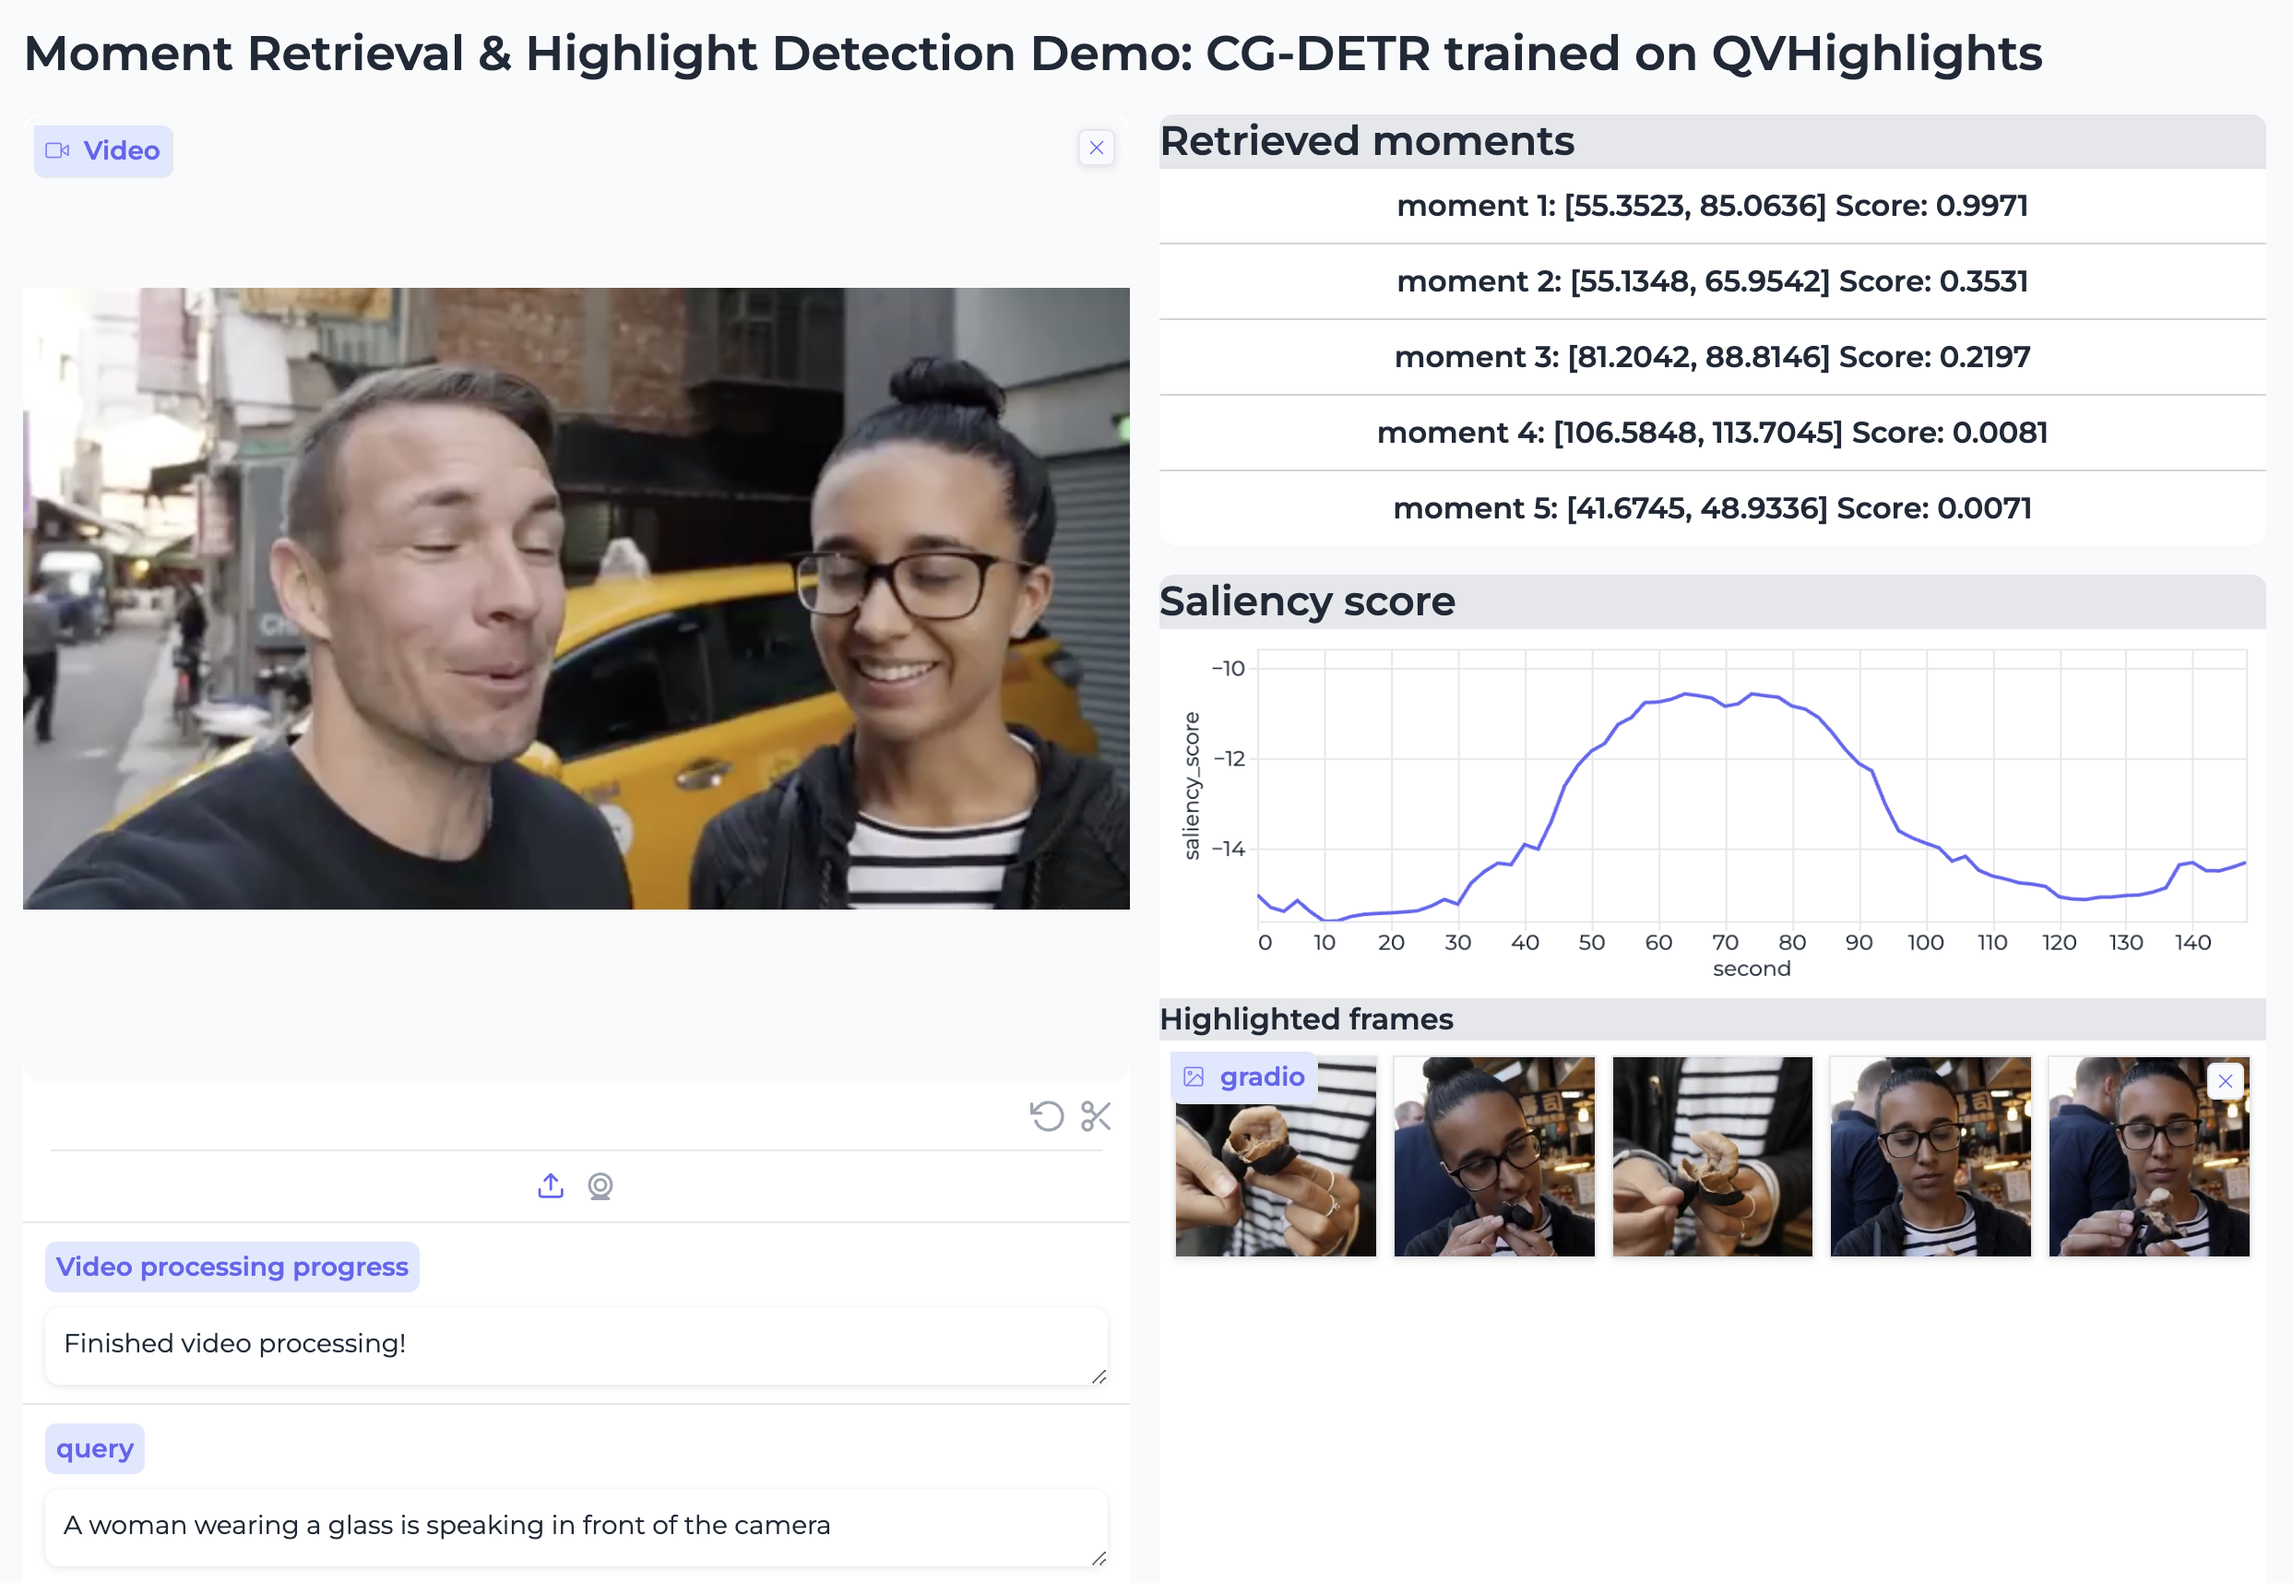
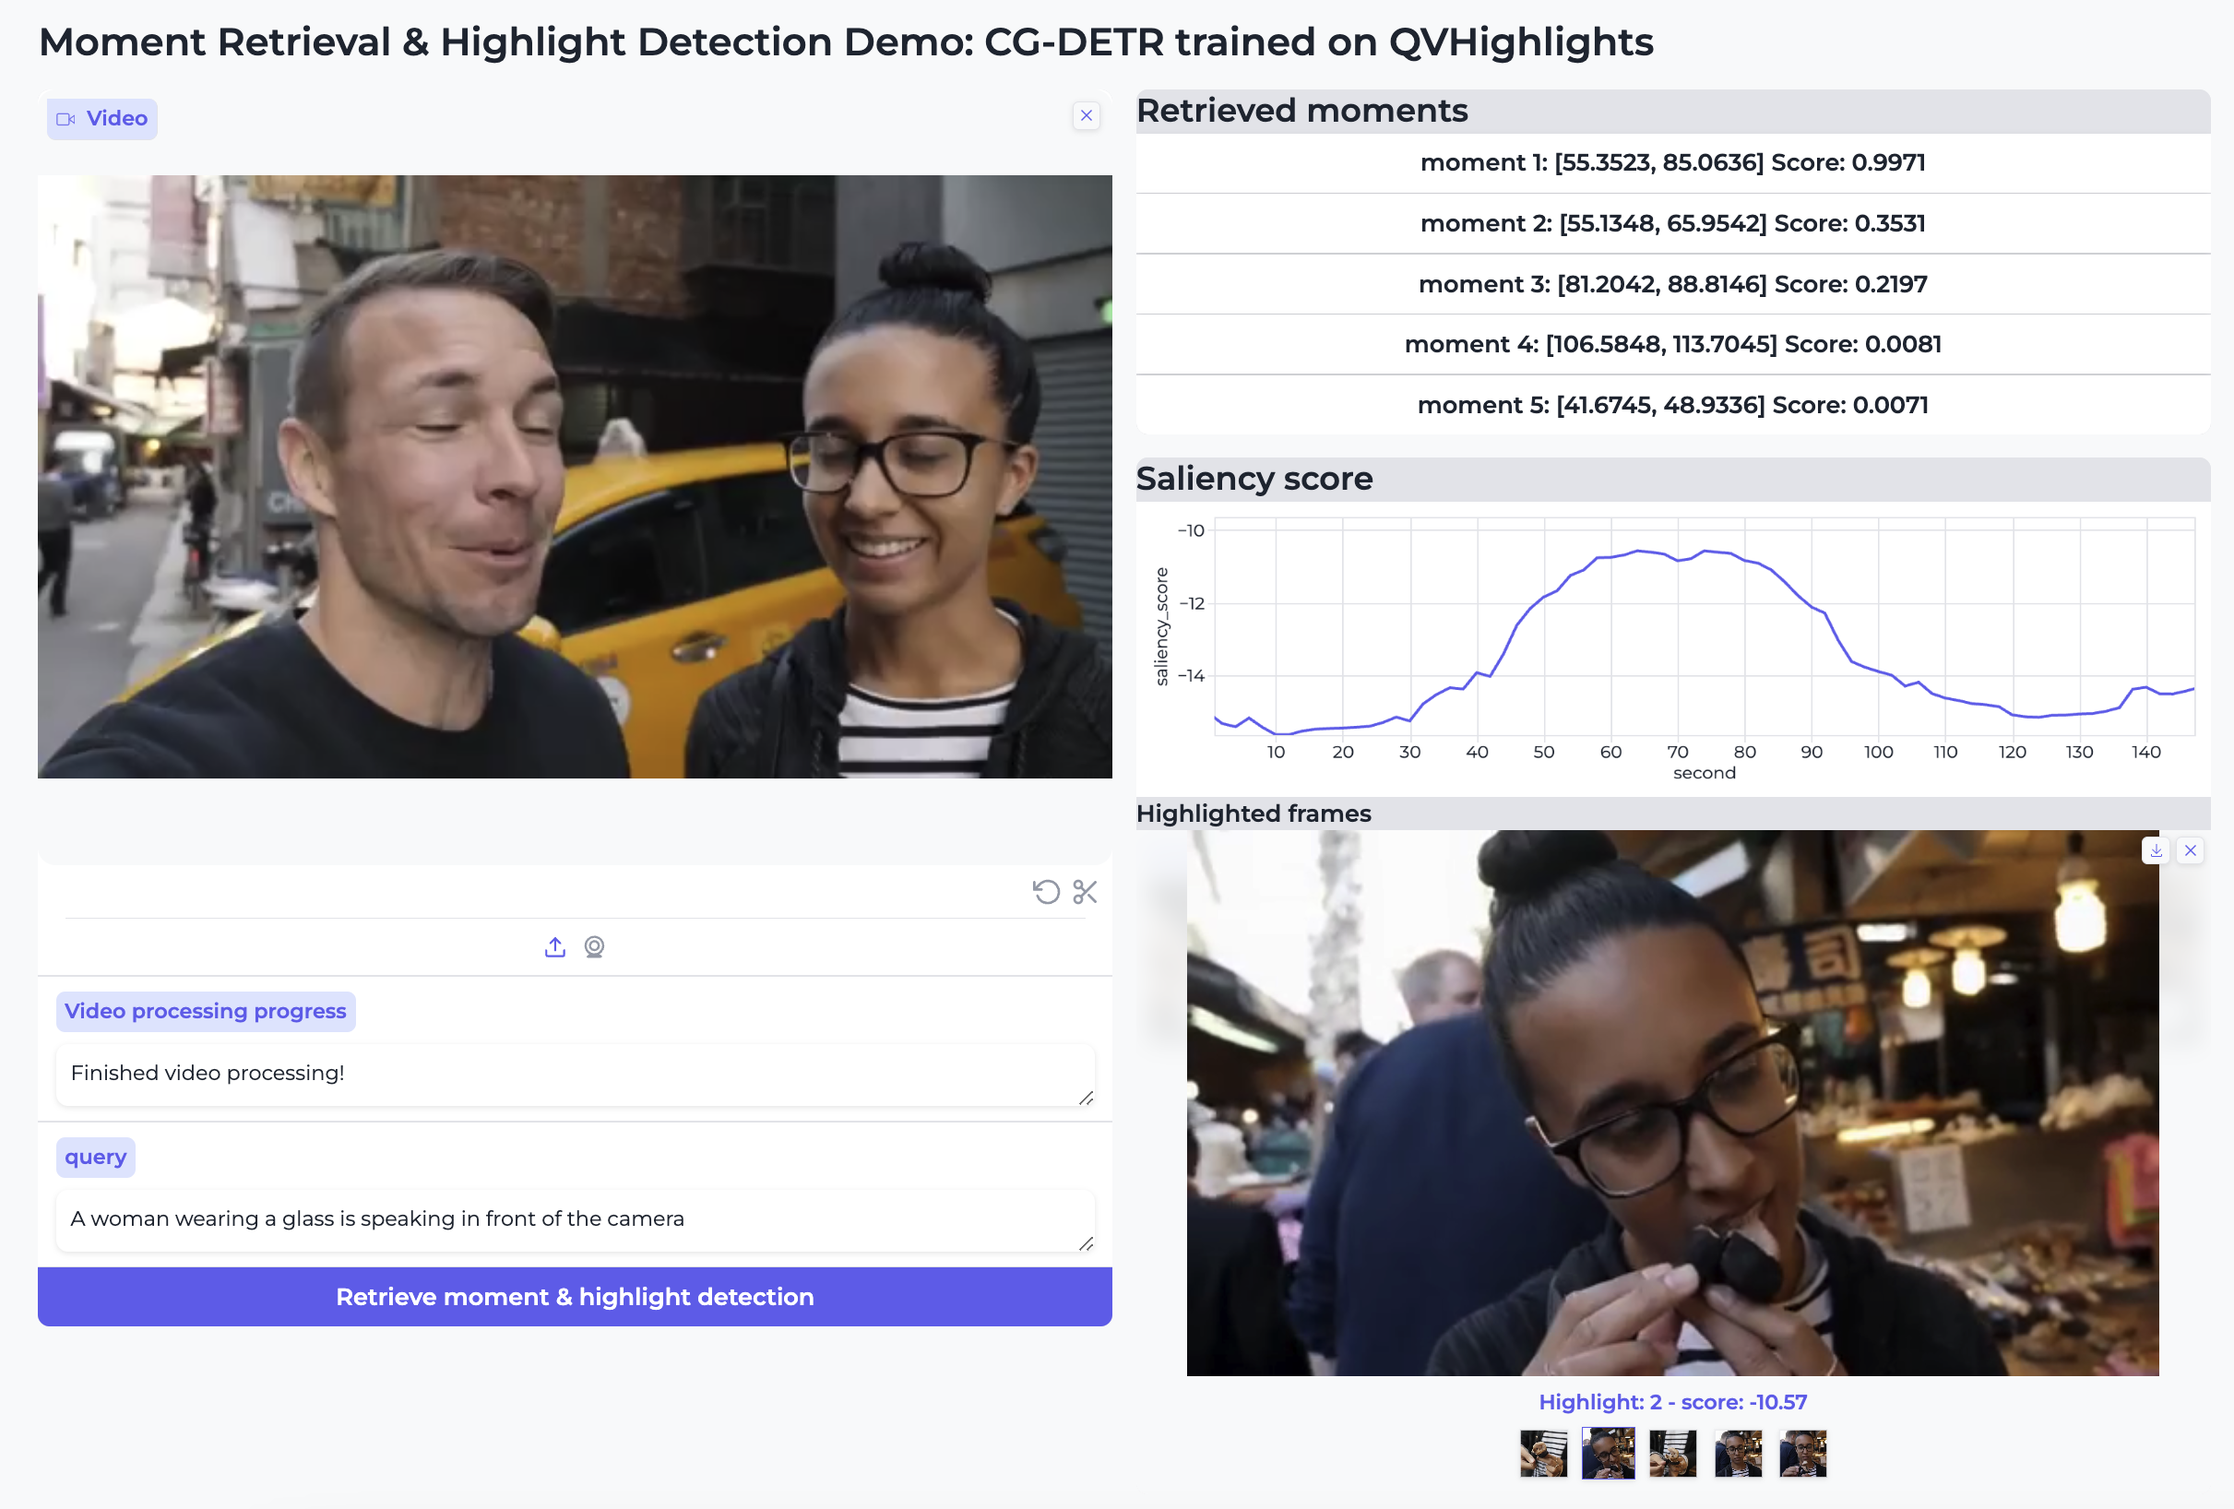
fix highlight slightly

diff --git a/gradio_demo/demo.py b/gradio_demo/demo.py
@@ -68,9 +68,12 @@ def predict(textbox, line, gallery):
         line = gr.LinePlot(value=hl_data, x='second', y='saliency_score', visible=True, y_lim=[min_val, max_val], x_lim=[min_x, max_x])
 
         # Show highlight frames
-        highlighted_seconds = hl_data.nlargest(columns='saliency_score', n=TOPK_HIGHLIGHT).second.tolist()
+        n_largest_df = hl_data.nlargest(columns='saliency_score', n=TOPK_HIGHLIGHT)
+        highlighted_seconds = n_largest_df.second.tolist()
+        highlighted_scores = n_largest_df.saliency_score.tolist()
+
         output_image_paths = []
-        for i, second in enumerate(highlighted_seconds):
+        for i, (second, score) in enumerate(zip(highlighted_seconds, highlighted_scores)):
             output_path = "gradio_demo/highlight_frames/highlight_{}.png".format(i)
             (
                 ffmpeg
@@ -79,7 +82,7 @@ def predict(textbox, line, gallery):
                 .global_args('-loglevel', 'quiet', '-y')
                 .run()
             )
-            output_image_paths.append(output_path)
+            output_image_paths.append((output_path, "Highlight: {} - score: {:.02f}".format(i+1, score)))
         gallery = gr.Gallery(value=output_image_paths, label='gradio', columns=5, show_download_button=True, visible=True)
         return buttons + [line, gallery]
 
@@ -118,7 +121,6 @@ def main():
                     line = gr.LinePlot(value=pd.DataFrame({'x': [], 'y': []}), x='x', y='y', visible=False)
                     gr.Markdown("### Highlighted frames")
                     gallery = gr.Gallery(value=[], label="highlight", columns=5, visible=False)
-                
                 
                 video_input.change(video_upload, inputs=[video_input], outputs=output)
                 
